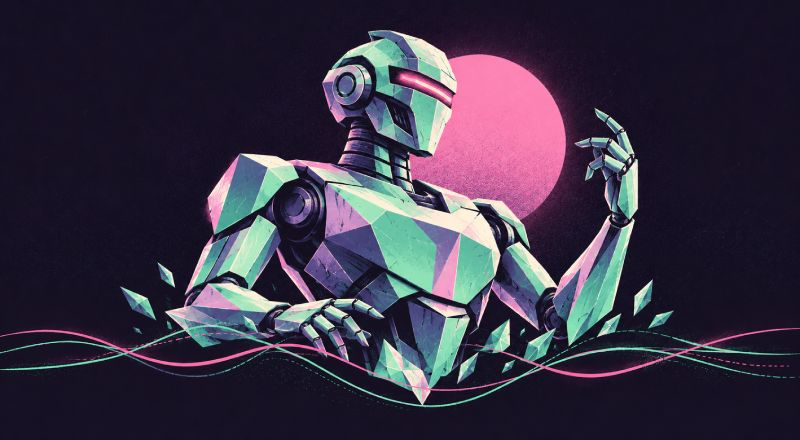
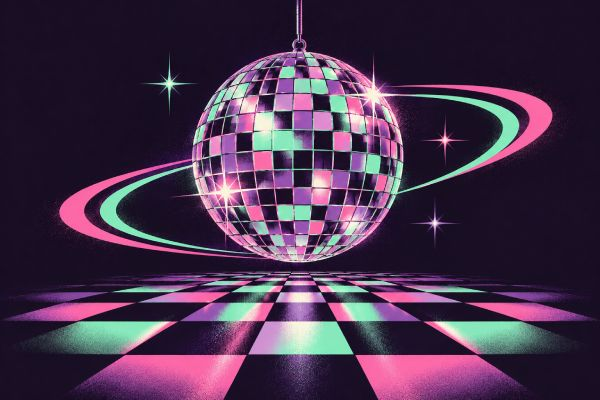
Påbörjat tredje youtube-spelaren samt ändrat bild för andra musikkortet under index.

diff --git a/upptack.html b/upptack.html
@@ -38,11 +38,17 @@
                     <p>Första låten är I Need Your Love av Midnight Passion</p>
                     <iframe width="320" height="200" src="https://www.youtube.com/embed/j6YNVhlaxiQ" title="YouTube video player" frameborder="0" allow="accelerometer; autoplay; clipboard-write; encrypted-media; gyroscope; picture-in-picture; web-share" referrerpolicy="strict-origin-when-cross-origin" allowfullscreen></iframe>
                 </article>
-                <article class="music-card" id="under-the-ice">
+                <article class="music-card" id="lets-dance-tonight">
                     <h2>Let's Dance Tonight</h2>
                     <p class="artist">David Gray</p>
                     <p>Nästa låttips är Let's Dance Tonight av David Gray</p>
                     <iframe width="320" height="200" src="https://www.youtube.com/embed/QTrmfC1-eEU" title="YouTube video player" frameborder="0" allow="accelerometer; autoplay; clipboard-write; encrypted-media; gyroscope; picture-in-picture; web-share" referrerpolicy="strict-origin-when-cross-origin" allowfullscreen></iframe>
+                </article>
+                <article class="music-card" id="gotta-go">
+                    <h2>Gotta Go</h2>
+                    <p class="artist">Vivien Vee</p>
+                    <p></p>
+                    <iframe width="320" height="200" src="https://www.youtube.com/embed/eqWaCqzXAQQ" title="YouTube video player" frameborder="0" allow="accelerometer; autoplay; clipboard-write; encrypted-media; gyroscope; picture-in-picture; web-share" referrerpolicy="strict-origin-when-cross-origin" allowfullscreen></iframe>
                 </article>
             </div>
         </section>

diff --git a/index.html b/index.html
@@ -50,7 +50,7 @@
                     <a href="upptack.html">Lyssna här</a>
                 </article>
                 <article class="music-card">
-                    <img src="images/music-card2.jpg" alt="En robot">
+                    <img src="images/music-card2.jpg" alt="En discokula">
                     <h3>Let's Dance Tonight</h3>
                     <p>David Gray</p>
                     <a href="upptack.html">Lyssna här</a>
